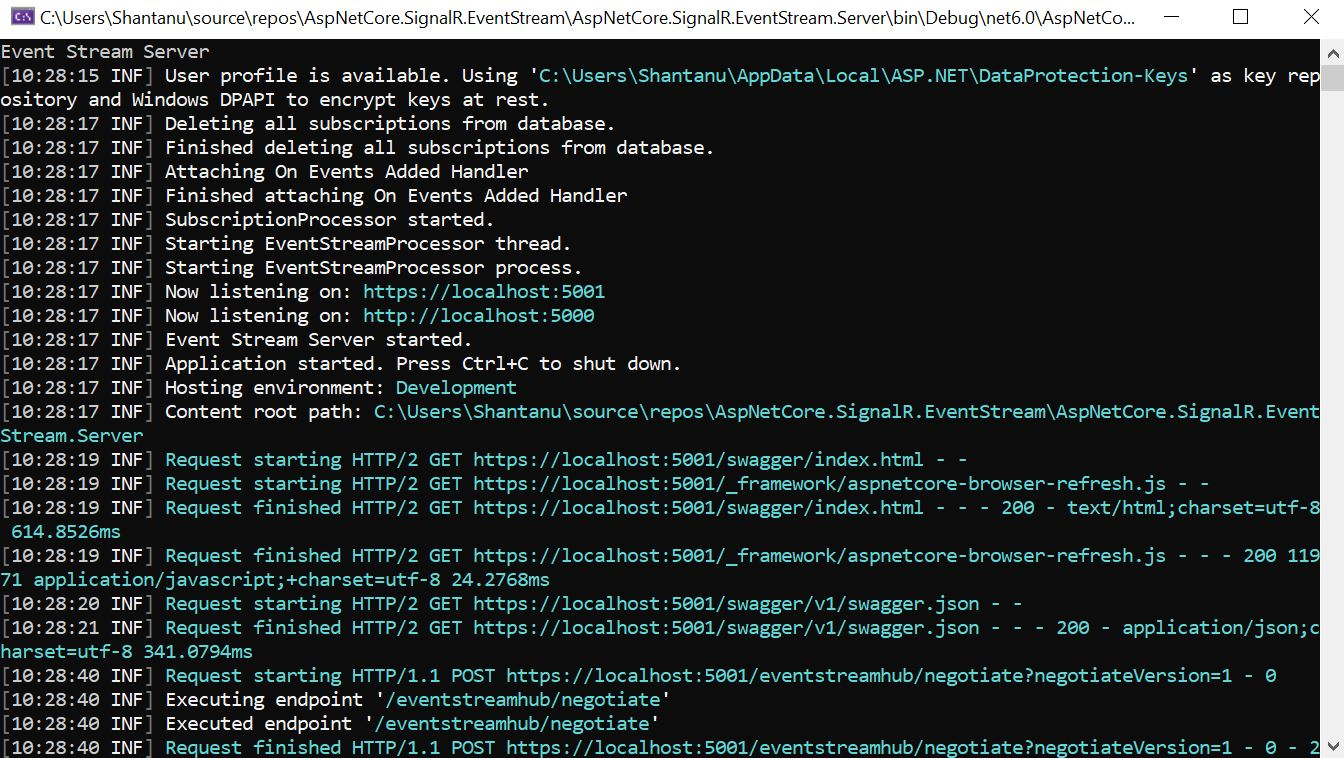
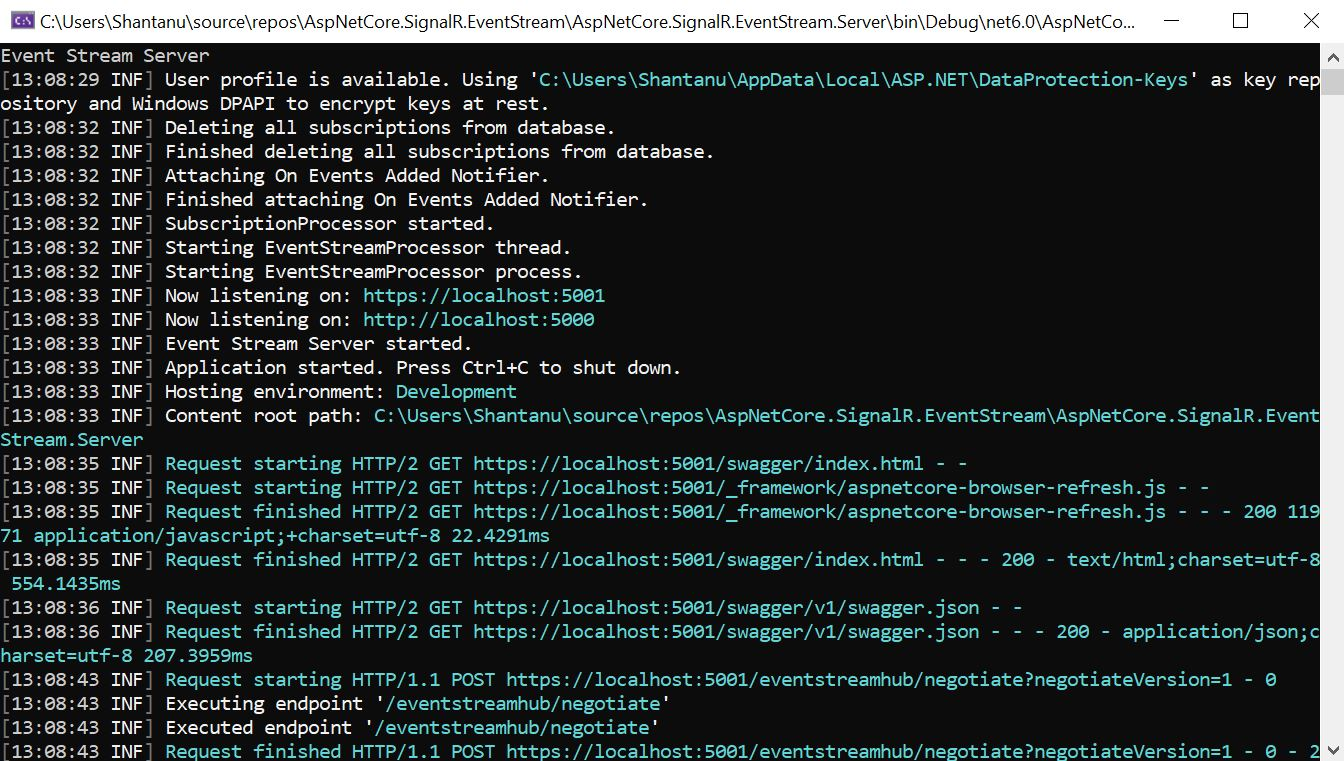
minor logging changes.

Changed region(s): [[0.0, 0.0, 1.0, 1.0], [0.7812, 0.8193, 1.0, 0.8496], [0.9375, 0.971, 1.0, 1.0]]

diff --git a/AspNetCore.SignalR.EventStream/Processors/SubscriptionProcessor.cs b/AspNetCore.SignalR.EventStream/Processors/SubscriptionProcessor.cs
@@ -26,16 +26,16 @@ namespace AspNetCore.SignalR.EventStream.Processors
                 if (!value)
                 {
                     _cancellationTokenSource?.Cancel();
-                    _logger?.LogInformation("Detaching On Events Added Handler");
+                    _logger?.LogInformation("Detaching On Events Added Notifier.");
                     _subscriptionProcessorEventHandler.OnEventsAdded -= OnEventsAddedHandler;
-                    _logger?.LogInformation("Finished detaching On Events Added Handler");
+                    _logger?.LogInformation("Finished detaching On Events Added Notifier.");
                     _logger.LogInformation($"{Name} stopped.");
                 }
                 else
                 {
-                    _logger?.LogInformation("Attaching On Events Added Handler");
+                    _logger?.LogInformation("Attaching On Events Added Notifier.");
                     _subscriptionProcessorEventHandler.OnEventsAdded += OnEventsAddedHandler;
-                    _logger?.LogInformation("Finished attaching On Events Added Handler");
+                    _logger?.LogInformation("Finished attaching On Events Added Notifier.");
                     _logger.LogInformation($"{Name} started.");
                 }                
 
